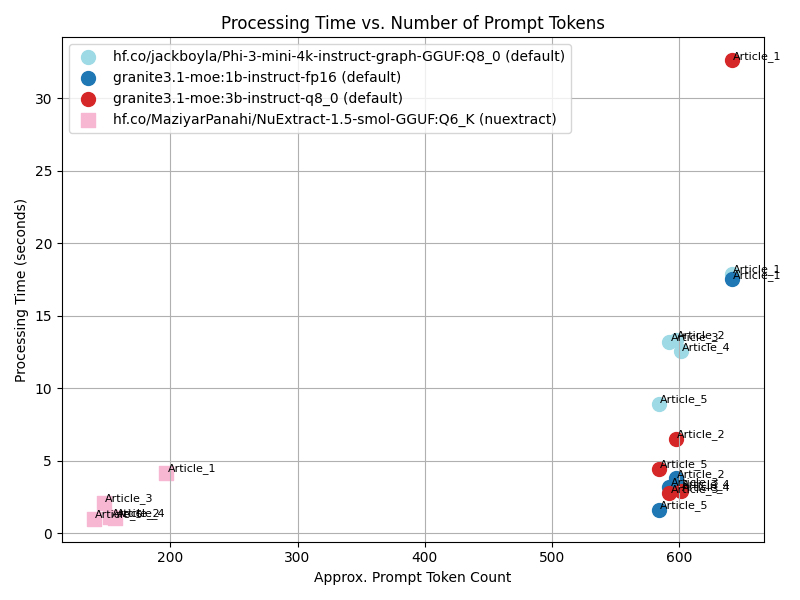
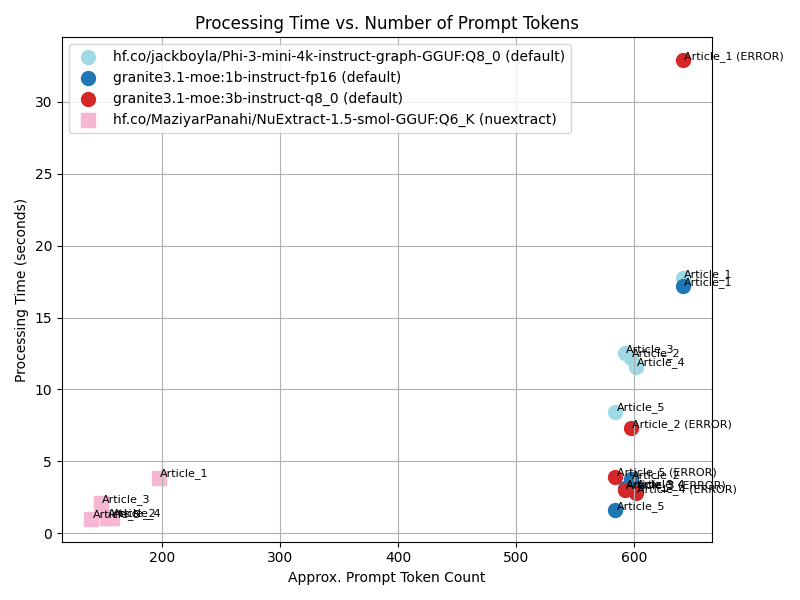
Tracks errors and shows in plots

diff --git a/benchmark.py b/benchmark.py
@@ -113,26 +113,27 @@ def run_benchmark(model, article_text, extraction_type="default"):
     print(f"Benchmarking model: {model} | Tokens: {num_tokens}")
     start_time = time.time()
 
+    error_occurred = False
+    response = requests.post(url, json=payload)
+    elapsed = time.time() - start_time
+    raw_output = response.content.decode('utf-8')
+    parsed_output = json.loads(raw_output)
+    message_content = parsed_output["message"]["content"]
     try:
-        response = requests.post(url, json=payload)
-        elapsed = time.time() - start_time
-        raw_output = response.content.decode('utf-8')
-        try:
-            parsed_output = json.loads(raw_output)
-        except Exception as e:
-            parsed_output = f"ERROR: {str(e)} {raw_output}"
+        graph = json.loads(message_content)
     except Exception as e:
-        elapsed = None
-        raw_output = f"ERROR: {str(e)}"
-        parsed_output = raw_output
+        parsed_output = f"ERROR: {str(e)} {message_content}"
+        error_occurred = True
+        print(f"Error parsing output for model {model}")
 
     result = {
+        "output": parsed_output,
+        "error": error_occurred,
         "model": model,
         "extraction_type": extraction_type,
         "num_tokens": num_tokens,
         "processing_time": elapsed,
-        "response_status": response.status_code if 'response' in locals() and response is not None else None,
-        "output": parsed_output
+        "response_status": response.status_code if 'response' in locals() and response is not None else None
     }
     return result
 
@@ -153,7 +154,7 @@ def main():
     os.makedirs(output_dir, exist_ok=True)
 
     # Save the input articles to a JSONL file
-    input_filename = os.join(output_dir, "input_articles.jsonl")
+    input_filename = os.path.join(output_dir, "input_articles.jsonl")
     with open(input_filename, "w", encoding="utf-8") as f:
         for text_id, text in texts.items():
             json_obj = {"text_id": text_id, "text": text}
@@ -171,7 +172,7 @@ def main():
         "hf.co/MaziyarPanahi/NuExtract-1.5-smol-GGUF:Q6_K"
     ]
 
-    # Run benchmarks for each text and model
+    # Run benchmarks for each model and text
     for model in default_models:
         for text_id, text in texts.items():
             result = run_benchmark(model, text, extraction_type="default")
@@ -215,6 +216,9 @@ def main():
 
     plt.figure(figsize=(8, 6))
     for res in benchmarks:
+        label = res["text_id"]
+        if res.get("error", False):
+            label += " (ERROR)"
         plt.scatter(
             res["num_tokens"], res["processing_time"],
             marker=markers[res["extraction_type"]],
@@ -222,7 +226,7 @@ def main():
             s=100,
             label=f"{res['model']} ({res['extraction_type']})"
         )
-        plt.text(res["num_tokens"]+1, res["processing_time"]+0.1, res["text_id"], fontsize=8)
+        plt.text(res["num_tokens"]+1, res["processing_time"]+0.1, label, fontsize=8)
     plt.xlabel("Approx. Prompt Token Count")
     plt.ylabel("Processing Time (seconds)")
     plt.title("Processing Time vs. Number of Prompt Tokens")
